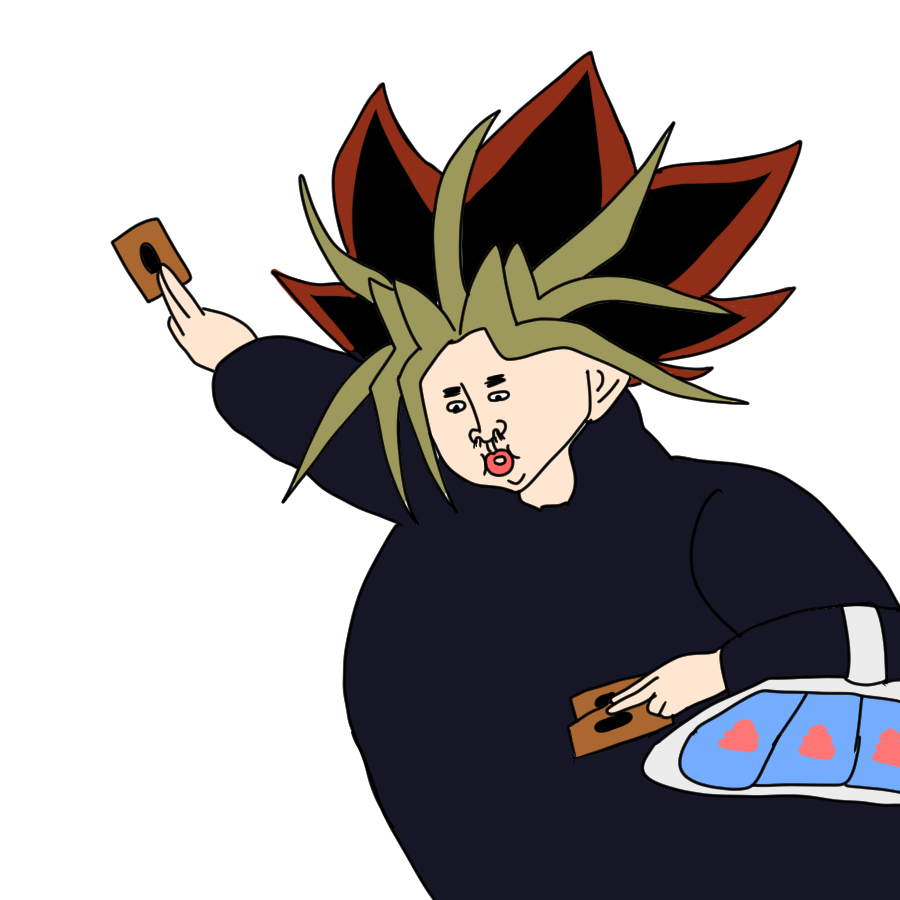
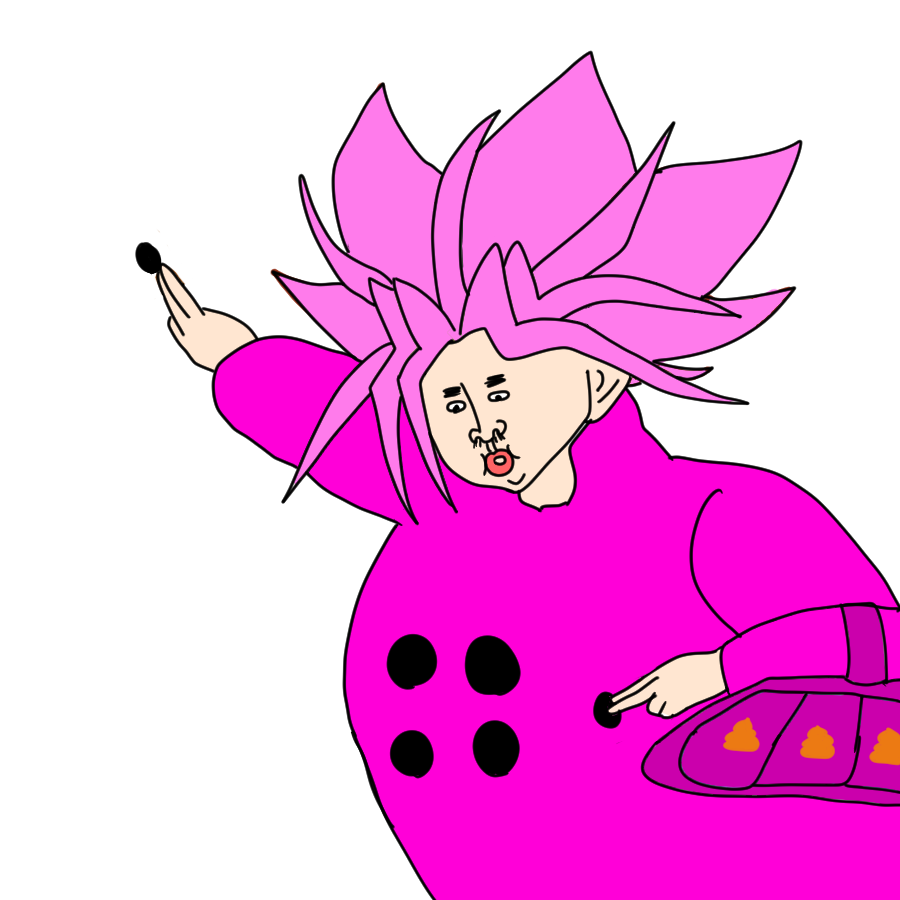
リバーシマスター: 遊戯王パロディ要素を全てオリジナルに差し替え・キャラ画像更新

diff --git a/games/reversi/index.html b/games/reversi/index.html
@@ -3,9 +3,9 @@
 <head>
 <meta charset="UTF-8">
 <meta name="viewport" content="width=device-width, initial-scale=1.0, user-scalable=no">
-<title>リバーシ | シュールゲームス</title>
-<meta property="og:title" content="リバーシ | シュールゲームス">
-<meta property="og:description" content="CPU対戦リバーシ">
+<title>リバーシマスター | シュールゲームス</title>
+<meta property="og:title" content="リバーシマスター | シュールゲームス">
+<meta property="og:description" content="生死をかけたリバーシバトルが始まる！一体これからどうなっちゃうの？次回「永久に吾輩の番だ」">
 <meta property="og:type" content="website">
 <meta property="og:image" content="https://eri-murayama.github.io/surreal-games/assets/images/ogp.png">
 <meta name="twitter:card" content="summary_large_image">
@@ -441,7 +441,14 @@ html, body {
   50% { box-shadow: 0 0 18px rgba(255,100,0,0.6), 0 0 30px rgba(255,60,0,0.2); }
 }
 
-/* 俺のターン演出 */
+.okunote-desc {
+  font-size: clamp(10px, 2.5vw, 12px);
+  color: rgba(255,180,100,0.7);
+  text-align: center;
+  margin-top: 2px;
+}
+
+/* 吾輩の番だが？演出 */
 .my-turn-overlay {
   position: fixed;
   top: 0; left: 0; width: 100%; height: 100%;
@@ -528,7 +535,7 @@ html, body {
   100% { transform: scaleX(1); opacity: 0.6; }
 }
 
-/* ずっと俺のターン演出 */
+/* 永遠の支配演出 */
 .eternal-overlay {
   position: fixed;
   top: 0; left: 0; width: 100%; height: 100%;
@@ -637,7 +644,7 @@ html, body {
   100% { opacity: 0; }
 }
 
-/* デュエルスタンバイ演出 — カード召喚風 */
+/* 黒いつぶ設置完了演出 */
 .duel-overlay {
   position: fixed;
   top: 0; left: 0; width: 100%; height: 100%;
@@ -671,7 +678,7 @@ html, body {
 .duel-overlay.show .duel-line-bottom { bottom: 38%; animation: duelLineSweep 0.5s ease-out 0.35s both; }
 .duel-overlay .duel-img {
   position: absolute;
-  left: 50%; top: 50%;
+  left: 50%; top: 66%;
   transform: translate(-50%, -50%);
   z-index: 4;
   opacity: 0;
@@ -860,7 +867,7 @@ html, body {
   50% { box-shadow: 0 0 40px rgba(255,215,0,0.5), 0 0 60px rgba(255,100,0,0.3), 0 4px 20px rgba(0,0,0,0.6); }
 }
 
-/* 俺のターン中のインジケーター */
+/* 吾輩の番中のインジケーター */
 .turn-indicator.my-turn-active {
   background: linear-gradient(135deg, rgba(255,60,0,0.4), rgba(200,50,0,0.3));
   border-color: #ff6600;
@@ -955,7 +962,8 @@ html, body {
       <button class="diff-btn" data-diff="hard">つよい</button>
     </div>
     <button class="btn primary" id="newGameBtn">新しいゲーム</button>
-    <button class="btn okunote" id="okunoteBtn">🃏 リバースカード</button>
+    <button class="btn okunote" id="okunoteBtn">🃏 吾輩の番だが？</button>
+    <div class="okunote-desc" id="okunoteDesc">※2回連続で石を置けるぞ！</div>
   </div>
 </div>
 
@@ -977,7 +985,7 @@ html, body {
 <div class="my-turn-overlay" id="myTurnOverlay">
   <div class="my-turn-bg"></div>
   <div class="my-turn-line top"></div>
-  <div class="my-turn-text">俺のターン<span class="exclamation">！</span></div>
+  <div class="my-turn-text">吾輩の番だが<span class="exclamation">？</span></div>
   <div class="my-turn-line bottom"></div>
 </div>
 
@@ -987,7 +995,7 @@ html, body {
   <div class="eternal-cinema-bottom"></div>
   <div class="eternal-ring"></div>
   <div class="eternal-img"><img src="character.png" alt=""></div>
-  <div class="eternal-text">ずっと俺のターン！</div>
+  <div class="eternal-text">永遠の支配！</div>
   <div class="eternal-sub">― どこにでも置ける ―</div>
 </div>
 
@@ -998,7 +1006,7 @@ html, body {
   <div class="duel-line duel-line-top"></div>
   <div class="duel-line duel-line-bottom"></div>
   <div class="duel-img"><img src="character.png" alt="" style="width:clamp(140px,40vw,260px);filter:drop-shadow(0 0 30px #ff6600) drop-shadow(0 0 60px #cc0000);"></div>
-  <div class="duel-text">デュエルスタンバイ！</div>
+  <div class="duel-text">黒いつぶ設置完了！</div>
 </div>
 
 <div class="allreverse-overlay" id="allreverseOverlay">
@@ -1604,7 +1612,7 @@ html, body {
     });
   });
 
-  // リバースカードボタン
+  // 吾輩の番だが？ボタン
   const duelOverlay = document.getElementById('duelOverlay');
   okunoteBtn.addEventListener('click', () => {
     if (gameOver || cpuThinking || isAnimating || currentPlayer !== BLACK) return;
@@ -1623,14 +1631,14 @@ html, body {
     isAnimating = true;
     okunoTeCount++;
 
-    // まず「デュエルスタンバイ！」演出
+    // 「黒いつぶ設置完了！」演出
     showDuelStandbyEffect();
 
     setTimeout(() => {
       myTurnRemaining = 2; // 2回石を置ける
 
       if (okunoTeCount >= ETERNAL_THRESHOLD) {
-        // ずっと俺のターン！
+        // 永遠の支配！
         eternalMode = true;
         myTurnRemaining = 0;
         showEternalEffect();
@@ -1643,16 +1651,13 @@ html, body {
           isAnimating = false;
         }, 5000);
       } else {
-        // 俺のターン！
-        showMyTurnEffect();
+        // 2回連続行動開始
         spawnSparks(60, ['#ff6600','#ff3300','#ffcc00','#ff9900','#ff0000']);
-        setTimeout(() => {
-          renderBoard();
-          updateTurnForOkunote();
-          isAnimating = false;
-        }, 2000);
+        renderBoard();
+        updateTurnForOkunote();
+        isAnimating = false;
       }
-    }, 2500); // デュエルスタンバイ演出の後
+    }, 2500); // 演出の後
   });
 
   // 永遠モード時、負けていたらボタンをオールリバースに変更
@@ -1747,7 +1752,7 @@ html, body {
     setTimeout(() => allreverseOverlay.classList.remove('show'), 4100);
   }
 
-  // デュエルスタンバイ！演出
+  // 黒いつぶ設置完了！演出
   function showDuelStandbyEffect() {
     duelOverlay.querySelector('.duel-text').textContent = t('duelStandby');
     duelOverlay.classList.remove('show');
@@ -1801,7 +1806,7 @@ html, body {
     setTimeout(() => myTurnOverlay.classList.remove('show'), 2100);
   }
 
-  // ずっと俺のターン演出
+  // 永遠の支配演出
   function showEternalEffect() {
     eternalOverlay.classList.remove('show');
     void eternalOverlay.offsetWidth;
@@ -1881,7 +1886,7 @@ SurrealGames.init('reversi');
 // ===== i18n 初期化 =====
 SurrealI18n.init({
   ja: {
-    title: 'リバーシ',
+    title: 'リバーシマスター',
     yourTurn: 'あなたの番',
     cpuThinking: 'CPU思考中...',
     finished: '終了',
@@ -1899,22 +1904,23 @@ SurrealI18n.init({
     shareOnX: '𝕏 シェア',
     backToHome: '🏠 トップページへ',
     otherGames: '🎮 他のゲームも遊ぶ',
-    okunote: '🃏 リバースカード',
-    myTurn: '俺のターン',
-    myTurnExcl: '！',
-    myTurnRemaining: (n) => `🃏 俺のターン！(残り${n})`,
-    eternalTurn: '∞ ずっと俺のターン ∞',
-    eternalText: 'ずっと俺のターン！',
+    okunote: '🃏 吾輩の番だが？',
+    okunoteDesc: '※2回連続で石を置けるぞ！',
+    myTurn: '吾輩の番だが',
+    myTurnExcl: '？',
+    myTurnRemaining: (n) => `🃏 吾輩の番だが？(残り${n})`,
+    eternalTurn: '∞ 永遠の支配 ∞',
+    eternalText: '永遠の支配！',
     eternalSub: '― どこにでも置ける ―',
-    duelStandby: 'デュエルスタンバイ！',
+    duelStandby: '黒いつぶ設置完了！',
     allReverse: '💀 オールリバース',
     allReverseText: 'オール<br>リバース',
     allReverseSub: '― 全てが黒に染まる ―',
     backToTop: '← トップに戻る',
-    shareResult: (b, w, result) => `【リバーシ】${result} 黒${b} vs 白${w}\n#シュールゲームス`,
+    shareResult: (b, w, result) => `【リバーシマスター】${result} 黒${b} vs 白${w}\n#シュールゲームス`,
   },
   en: {
-    title: 'Reversi',
+    title: 'Reversi Master',
     yourTurn: 'Your Turn',
     cpuThinking: 'CPU thinking...',
     finished: 'Finished',
@@ -1932,19 +1938,20 @@ SurrealI18n.init({
     shareOnX: '𝕏 Share',
     backToHome: '🏠 Home',
     otherGames: '🎮 Play Other Games',
-    okunote: '🃏 Reverse Card',
+    okunote: '🃏 My Turn?',
+    okunoteDesc: '※ Place 2 stones in a row!',
     myTurn: 'MY TURN',
-    myTurnExcl: '!',
-    myTurnRemaining: (n) => `🃏 MY TURN! (${n} left)`,
-    eternalTurn: '∞ ALWAYS MY TURN ∞',
-    eternalText: 'ALWAYS MY TURN!',
+    myTurnExcl: '?',
+    myTurnRemaining: (n) => `🃏 My Turn? (${n} left)`,
+    eternalTurn: '∞ ETERNAL DOMINION ∞',
+    eternalText: 'ETERNAL DOMINION!',
     eternalSub: '― Place anywhere ―',
-    duelStandby: 'DUEL, STANDBY!',
+    duelStandby: 'BLACK STONE PLACED!',
     allReverse: '💀 ALL REVERSE',
     allReverseText: 'ALL<br>REVERSE',
     allReverseSub: '― Everything turns black ―',
     backToTop: '← Back to Top',
-    shareResult: (b, w, result) => `[Reversi] ${result} Black ${b} vs White ${w}\n#SurrealGames`,
+    shareResult: (b, w, result) => `[Reversi Master] ${result} Black ${b} vs White ${w}\n#SurrealGames`,
   },
 }, {
   onLangChange: updateAllTexts
@@ -1964,11 +1971,12 @@ function updateAllTexts() {
   document.getElementById('newGameBtn').textContent = t('newGame');
   const okunoteBtn = document.getElementById('okunoteBtn');
   if (!okunoteBtn.disabled) okunoteBtn.textContent = t('okunote');
+  document.getElementById('okunoteDesc').textContent = t('okunoteDesc');
   // リザルト
   document.getElementById('resultNewGame').textContent = t('playAgain');
   document.getElementById('resultShare').textContent = t('shareOnX');
   document.getElementById('resultHome').textContent = t('backToHome');
-  // 俺のターン演出テキスト
+  // 演出テキスト
   document.querySelector('.my-turn-text').innerHTML = t('myTurn') + '<span class="exclamation">' + t('myTurnExcl') + '</span>';
   document.querySelector('.eternal-text').textContent = t('eternalText');
   document.querySelector('.eternal-sub').textContent = t('eternalSub');
